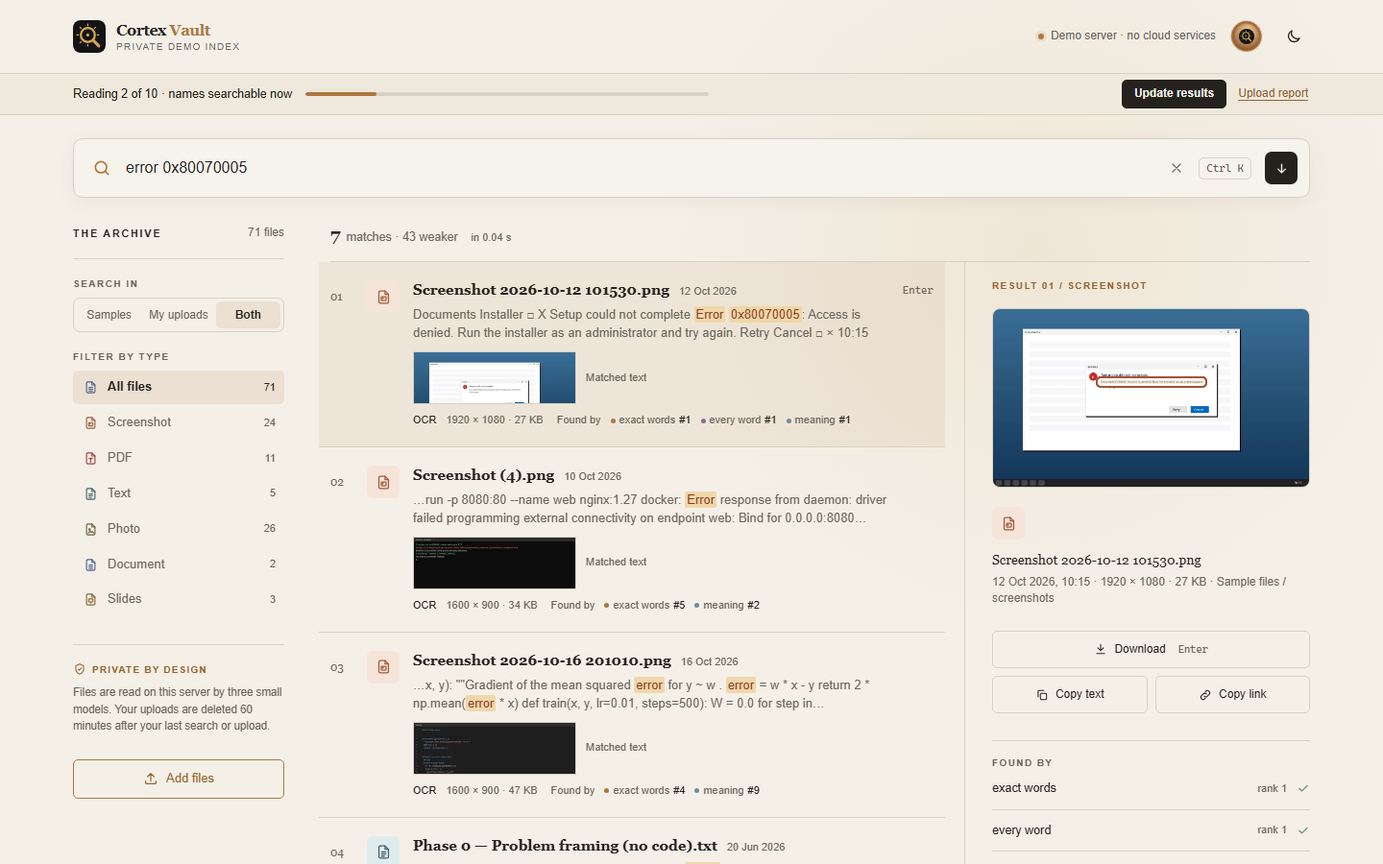
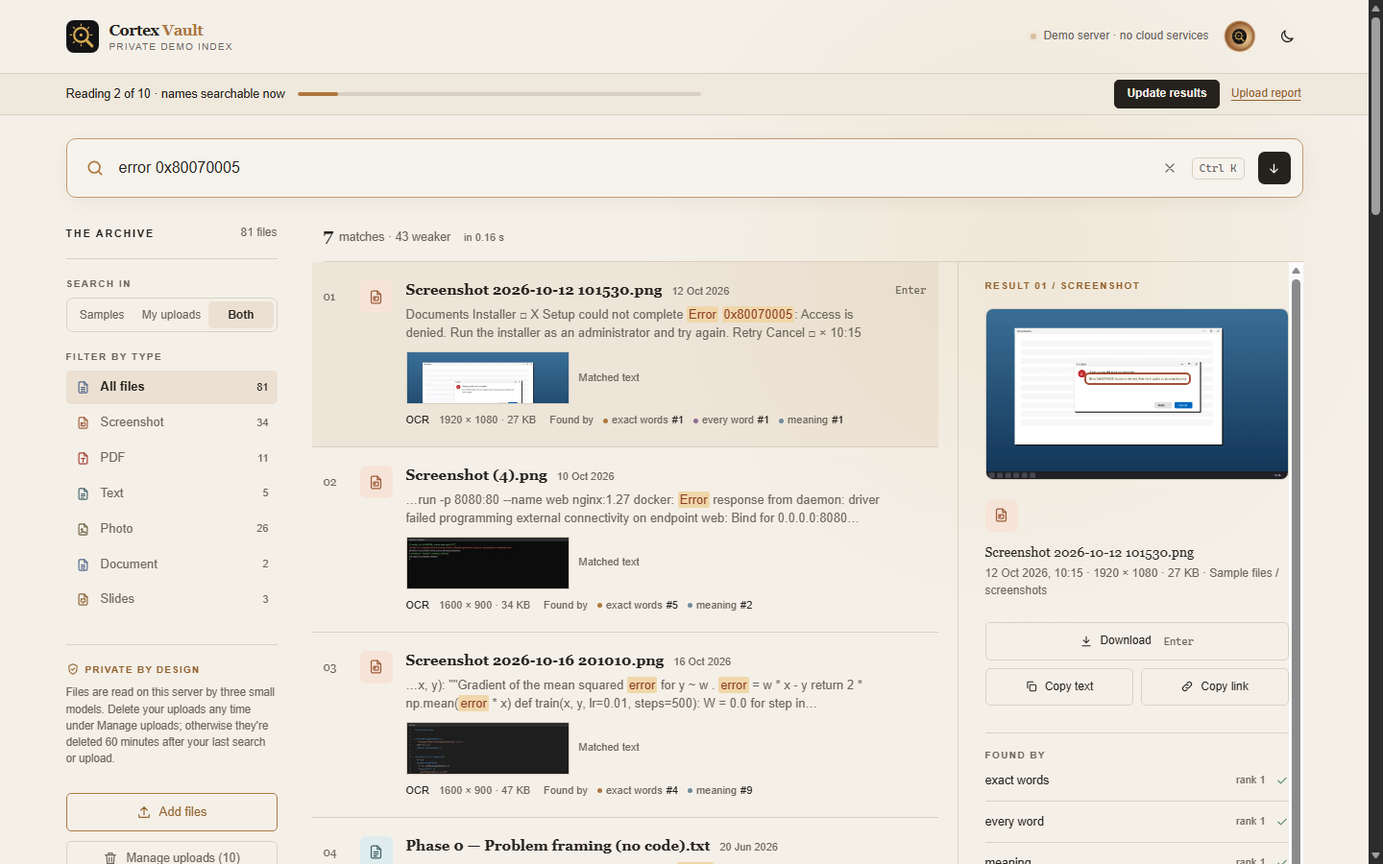
spec: v1.1.0 in §8 (the session cookie, drop anywhere, the tray, Manage uploads), §18, §19 rows per part, items ad and ae, v2.15; README and screenshots
- §2, §8, §18: a visitor's uploads are reached only through their session
  cookie (no URL names a session); drag and drop anywhere and the bigger drop
  zone; the upload tray; Manage uploads (Delete selected, Delete all uploads);
  the privacy texts point to Manage uploads.
- §19: one row per part with its tests and live check, the choices made on the
  way, open items ad (two first uploads racing in two tabs) and ae (no expiry
  message after a restart), both Later.
- README: the demo paragraph and rules, the test count (565), and the
  screenshots: the three desktop ones retaken on the demo index (warm), two
  added (the tray, Manage uploads).

diff --git a/SPEC.md b/SPEC.md
@@ -42,7 +42,7 @@
 | Writes | Index and re-index | Never to the demo index; uploads go into a per-session copy (§8) |
 | Bind | `127.0.0.1` only | `127.0.0.1:7860` behind Caddy, which serves HTTPS on 443 (§15) |
 | Extras | Index tab; "Open file" button (`vault/platform.py`: `os.startfile` on Windows, `open` on macOS, `xdg-open` on Linux) | Upload tab (files or a whole folder); "How it works" tab |
-| File access | Only paths stored in the DB | Only by DB id or session id. A user-supplied path is never read. |
+| File access | Only paths stored in the DB | Only by DB id; a visitor's own uploads only through their session cookie (§8). A user-supplied path is never read. |
 | Network | None after the first model download (`HF_HUB_OFFLINE=1` supported) | Same. The server itself is not private (§16). |
 
 ---
@@ -351,9 +351,12 @@ The UI is called **Cortex Vault**: the page title, header, favicon and footer sa
 - "N files": the files in the selected scope (*Search in*, §19 20 Oct): the samples, this session's uploads, or both in demo mode (*My uploads* before any upload: 0); the vault in local mode. With 71 samples and 10 uploads: Samples 71, My uploads 10, Both 81.
 - *Search in* (demo only): Samples, My uploads or Both; *Both* before any upload, *My uploads* once something is uploaded. Hidden on phones, where the scope is always *Both*.
 - **Filter by type:** All files, Screenshot, PDF, Text, Photo, Document, Slides, each with its count in the selected scope, as searches see it (Text is a `.txt` / `.md` file, Document the other docs). The total and the counts change with the scope, and after each upload: the status part carries every scope's counts, so cortex.js repaints them while the results on screen stay put. The filter is not a new search: with Photos on, you see the photos among the results on the page (up to 50). Kind *words* in the query stay hard filters (§7.1). The filter stays on across searches, and while it's on, the count line says so ("3 matches in Photos ×"); that × clears it, so a new search never quietly shows only one type. On home it filters "Recently added".
-- "Private by design": in demo mode "Files are read on this server by three small models. Delete your uploads any time with Delete my uploads; otherwise they're deleted N minutes after your last search or upload."; in local mode "Indexing runs on this computer. Nothing leaves this device."
-- **Add files** (demo) or **Folders** (local).
-- **Delete my uploads** (demo, §19 20 Oct): under Add files, and where The Archive follows the results on phones; shown only while the session has uploads. It asks first ("Delete all N files you uploaded? This can't be undone."), then wipes the session at once, the way the expiry does (`SessionManager.delete`, `_wipe`): every file in the session's folder is overwritten with zeros (best effort: flash storage and some filesystems can keep old blocks) and removed, so the uploads, its copy of the index and its thumbnails go, then any of Gradio's copies of its uploads still in Gradio's folder (refused files; accepted ones went when they were copied); the slot is free. Then the samples: scope *Samples*, the query on screen run again there, My uploads 0, and a toast "Your N uploads were deleted". Only the caller's own session: its id is the page's server-side state (`gr.State`), which a request can't set or name, and no route takes a session id for deleting. While one of its uploads is still being checked or read, nothing is touched and a toast says so.
+- "Private by design": in demo mode "Files are read on this server by three small models. Delete your uploads any time under Manage uploads; otherwise they're deleted N minutes after your last search or upload."; in local mode "Indexing runs on this computer. Nothing leaves this device."
+- **Add files** (demo: picked files go into the upload tray first, below) or **Folders** (local).
+- **Manage uploads (N)** (demo, owner, v1.1.0; it took the place of v1.0.4's *Delete my uploads*, §19 20 Oct): under Add files, and where The Archive follows the results on phones; shown only while the session has uploads, N being its files. It opens a dialog (full screen on phones) listing this browser's uploaded files, newest first (`/session/uploads`, by the session cookie only): a checkbox per file with its name, size and type, *Select all*, **Delete selected (k)** and **Delete all uploads**. Keyboard: focus stays in the dialog, Space ticks a box, Esc closes it and focus goes back to the button.
+  - **Delete selected** asks "Delete k files? This can't be undone.", then deletes those files of the cookie's session, by their id in its index (`SessionManager.remove`): each is overwritten with zeros and removed, with its thumbnail, then the indexer's sweep forgets it (`pipeline.remove_paths` over `_Indexer.forget`, the sweep's own step: one transaction per file, FTS rows deleted explicitly, then path chunks, unused thumbnails and a compaction). Ids that aren't the session's own uploads (a sample's, another session's) are ignored. The session's file count, total and hashes follow, so the same file can be uploaded again; its idle time doesn't restart, and it stays open even when emptied. The status names the deleted ids and carries the new counts: cortex.js takes those rows and their preview copies out of the results on screen without drawing them again, the selection moves to the next row (or the one before, at the end), the other rows keep their place and numbers, and the counts, the button and the list follow; home is drawn again. A toast says "k uploads deleted". The index version never goes back (`Library.version` counts removals), so "Update results" still shows after a later upload.
+  - **Delete all uploads** asks "Delete all N files you uploaded? This can't be undone.", then wipes the session at once, the way the expiry does (`SessionManager.delete`, `_wipe`): every file in the session's folder is overwritten with zeros (best effort: flash storage and some filesystems can keep old blocks) and removed, so the uploads, its copy of the index and its thumbnails go, then any of Gradio's copies of its uploads still in Gradio's folder (refused files; accepted ones went when they were copied); the slot is free. Then the samples: scope *Samples*, the query on screen run again there, My uploads 0, a toast "Your N uploads were deleted", and the page clears the cookie.
+  - Both act only on the session the browser's cookie names: no event data and no route names a session. While one of its uploads is still being checked or read, nothing is touched and a toast says so.
 - On phones the type filter is a row of chips above the results (the same buttons, with the same counts: the scope there is *Both*), and the rest of The Archive follows the results.
 
 **Results (presentation only; the ranking is unchanged, §7.4)**
@@ -372,38 +375,41 @@ The UI is called **Cortex Vault**: the page title, header, favicon and footer sa
 - **Text read by:** OCR ("on this server" in demo mode, "on this computer" locally), the PDF's own text layer, Word document text, slide text, plain text, or no text found.
 - **Extracted text:** the snippet, with the matched words marked.
 
-**Home** (below the search box): The Archive and, beside it, "Recently added" (newest indexed first); then in demo mode the drop zone, the upload notice and the note about the three models, and in local mode the indexed folders.
+**Home** (below the search box): The Archive and, beside it, "Recently added" (newest indexed first); then in demo mode the drop zone ("Drop files anywhere on this page", the accepted types and Choose files; on phones "Add your own files"), about three times its v1.0 height, with only the upload notice under it (v1.1.0: the note about the samples and the three models went; the rail's note and the hero's caption name the models, the header says no cloud services), and in local mode the indexed folders.
 
 **States:** no results (a one-line suggestion); an upload in progress (the upload bar, below; the dial turns and the header's dot pulses); after an upload, its report: each file as added, already in your uploads (sha256), not a supported type, or couldn't be read, with the reason.
 
 **Demo mode**
 - The header status reads "Demo server · no cloud services".
-- **Add files** (in The Archive) and the home drop zone upload files. Folder upload is Later (§14).
+- **Adding files** (owner, v1.1.0): Add files (in The Archive), the home drop zone, or **dropping files anywhere on the page**, home or results: dragging files over the page shows a full-page overlay, "Drop to add N files" (or that the demo is busy), and dropping anywhere adds them. Phones have no dragging: Add files and the zone open the file picker. Folder upload is Later (§14); a dropped folder is marked in the tray.
+- **The upload tray** (owner, v1.1.0): picked or dropped files go into a tray, a dialog (full screen on phones), and nothing leaves the browser until **Upload N files** is chosen. Each file shows its name, size and type; the files the server would refuse are marked "won't be added: <reason>" by checks that mirror `vault/session.py`'s, in its order and words: a folder, the type (as `Path.suffix` reads it), the size, then the session's file count and total over the files that will be added, after what the session already holds (`SessionManager.limits`, in the status part). The server still checks everything it's sent, and alone catches a file already uploaded and an Office file too large unpacked. Each file has a ×; **Add more** opens the picker (the same file twice is listed once), **Clear** empties the tray, and Cancel, Esc or the backdrop closes it. Upload sends only the files that will be added, and the bar counts the rest as not sent. The tray repeats the upload notice. Keyboard: focus goes to Upload, Tab stays inside, Esc cancels, and focus goes back where it came from.
 - **Upload bar (M6 item 3a, §19 19 Oct):** a slim strip under the header, in the page flow (also on phones), never a modal or overlay: search, the type filter and the detail view stay fully usable while it shows (a test runs a search while an upload is read). Real numbers only, never a time estimate:
   - "Uploading N of M files · P%": the browser-to-server transfer, measured by the browser (`XMLHttpRequest` upload progress to Gradio's upload endpoint). Where it can't be measured (that endpoint missing: Gradio's own upload helper), the bar is indeterminate for this stage, with no percentage;
   - "Listing N of M files": phase 1 (§6.1), which takes about 17 s for 200 files on the VM; indeterminate until the server knows M;
   - "Reading N of M · names searchable now": phase 2;
-  - then "Upload done: 3 added · 1 not added", with **Upload report** (the per-file outcome, opening inside the bar) and a close button. Files the browser couldn't send (over the size cap, or the connection dropped) are counted as "not sent".
+  - then "Upload done: 3 added · 1 not added", with **Upload report** (the per-file outcome, opening inside the bar) and a close button. Files the browser didn't send (marked "won't be added" in the tray, over the size cap, or the connection dropped) are counted as "not sent".
   - The bar is a `role="progressbar"` with real values (percent while uploading, files listed or read after), announces only stage changes, and with `prefers-reduced-motion` an indeterminate bar is a still, striped track.
   - **Update results** shows in the bar when files were listed or read after the results on screen were found (each results view carries the index version it was found in). It re-runs the current search and keeps the selected result if it's still there. Results never change by themselves: an upload never renders the main part. On home (no search), the first upload of a session switches the scope to *My uploads* and lists the new files under Recently added.
 - **Limits (M6, for a small audience, §19 19 Oct):** per session, counted over all its uploads: ≤ 200 files, ≤ 500 MB in total, ≤ 50 MB per file, ≤ 500 MB unpacked per Word or PowerPoint file (`upload_zip_max_total`), with an extension allow-list.
   - Enforce the limits in our own code, not only through Gradio's settings (Gradio's `max_file_size` is set from `upload_max_bytes`, so a larger file is refused before it's written).
   - Timed (M6, §19 19 Oct): a mixed 200-file, 230 MB upload is listed in 17 s and fully read in 6.9 min on the deploy host (`bench/bench_upload.py --files 200`), under the owner's ~8 min limit, so 200 stays. Five full sessions and their thumbnails take about 2.6 GB of the VM's 20 GB free.
 - **Session index:** a session is created by the first accepted upload only, never by opening or searching the page, so crawlers can't use up the slots. On that upload, copy the demo index (SQLite backup API) into `/tmp/vault_sessions/<uuid4>/` and index the uploads into that copy. The demo index itself never changes.
+- **The session cookie** (owner, v1.1.0): a session belongs to a browser, not a tab, so a reload or a second tab keeps the uploads. An HttpOnly, Secure, SameSite=Strict cookie (`cv_session`, Path=/, no expiry: gone when the browser closes) holds a random 256-bit token; the server keeps only its SHA-256, and the session's folder keeps its uuid4 name, which never leaves the server. It's set only after the first accepted upload: Gradio's handlers can read cookies but not set them, so that upload's status gives its own page a one-time ticket (256 bits, used once, within 5 minutes), which cortex.js trades at `POST /session/claim`, a same-origin JSON request only (another site's Origin or Sec-Fetch-Site gets 403); events wait for the claim, so the next one carries the cookie. Every handler and route finds the session from the cookie alone, never from page data or a URL; a cookie that names no live session counts as none (a forged one gets nothing), and the page clears it (`POST /session/forget`, which never clears a live session's cookie).
+- **Opening the page** on a live session brings back My uploads (on a desktop the scope switches to it, as after a first upload), the counts and the latest upload report, which the upload's worker keeps on the session; while an upload is still being read, the bar follows it there too (the load event has no concurrency limit). Opening the page doesn't keep a session alive. If the cookie's session expired, the page says "Your earlier uploads were deleted after N minutes" once and clears the cookie (the server remembers expired sessions' token hashes for 24 h, at most 1,000, not across a restart: item ae).
 - **Incremental (§19, 18 Oct):** every later upload adds only its new files to the session index; a file identical (sha256) to one already in the session is skipped. Uploading 30 files and then 20 more indexes 20 the second time, and the report says "added 20".
 - Uploads are indexed one job at a time (a queue): OCR uses every CPU, and the OCR engine keeps per-call state.
 - **Scope control** (*Search in*, in The Archive): see above.
-- Wipe a session `session_ttl_s` (60 min) after its last search or upload, not after it started, or at once with *Delete my uploads* (the same wipe); fetching a thumbnail, a preview or a download doesn't count. Wipe all sessions on app start. Every text that says when uploads are deleted takes the minutes from `session_ttl_s`.
+- Wipe a session `session_ttl_s` (60 min) after its last search or upload, not after it started, or at once with *Delete all uploads* (the same wipe); fetching a thumbnail, a preview or a download, opening the page and deleting some uploads don't count. Wipe all sessions on app start. Every text that says when uploads are deleted takes the minutes from `session_ttl_s`.
 - **At most `max_sessions` = 5 upload sessions at once** (§19, 19 Oct; 20 until then). With all 5 open, a visitor without a session sees "The demo is busy, try again in a few minutes" in place of the drop zone, Add files shows the same instead of opening the file picker, and an upload that arrives anyway is turned away whole (nothing kept, Gradio's copies included). Searching the sample files keeps working for everyone, and a visitor who has a session can still add to it.
-- Visible notice, under the drop zone and above the upload outcome: "Uploads are processed on this server and kept only for your session. Delete them any time with Delete my uploads; otherwise they're deleted N minutes after your last search or upload. For private use, run it on your own computer (see README)." The footer says "Demo server · your uploads are deleted N minutes after your last search or upload", and links to the source code (AGPL-3.0 section 13): a plain link, opened only when clicked, the one URL in a served page.
-- `/file/{id}` sends a file as an attachment with its content type, by DB id (plus the session id for uploads). An unknown id, another session's file and anything path-like all get 404.
+- Visible notice, under the drop zone and above the upload outcome: "Uploads are processed on this server and kept only for your session. Delete them any time under Manage uploads; otherwise they're deleted N minutes after your last search or upload. For private use, run it on your own computer (see README)." The tray repeats it before anything is sent. The footer says "Demo server · your uploads are deleted N minutes after your last search or upload", and links to the source code (AGPL-3.0 section 13): a plain link, opened only when clicked, the one URL in a served page.
+- `/file/{id}` sends a file as an attachment with its content type, by DB id; an upload only to the browser whose cookie names its session. An unknown id, another session's file and anything path-like all get 404.
 
 **Local mode:** the same design without the scope control; the header status reads "Local only · nothing leaves this device", the footer "Nothing leaves this device" and "Last indexed <when>"; "on this computer" in "Text read by"; Enter opens the file through `vault/platform.py`. **Folders** (in The Archive) opens a panel to add a folder, remove one, and "Index now" with progress, the last run report, counts by kind and the error list (automatic re-indexing is Later, §14). The panel and its handlers exist only in local mode.
 
 **How it works** (M6): architecture diagram, the eval ablation table (from `eval/results.md`), a privacy note, and a link to "Run on your own files".
 
 **Files and look**
-- Thumbnails, previews and downloads are served only by file id or session id, through the app's own routes (`/thumb/{id}`, `/preview/{id}`, `/file/{id}`), which look the file up in the DB. No URL carries a path, and Gradio's `allowed_paths` stays empty (§19, 18 Oct).
+- Thumbnails, previews and downloads are served only by file id, through the app's own routes (`/thumb/{id}`, `/preview/{id}`, `/file/{id}`), which look the file up in the DB: the session copy the browser's cookie names, else the main index. No URL carries a path or names a session (v1.1.0: no more `?s=`), and Gradio's `allowed_paths` stays empty (§19, 18 Oct). Preview URLs carry the start of the file's SHA-256, as thumbnail URLs do, since a file id can come back for another file.
 - Static assets (`cortex.css`, `cortex.js`, the logo) are served by the app from `vault/ui/static/` at `/cv/…`. There are no font files: the look uses system fonts (Georgia for the brand, headings, file names, counts and numbers; Arial / Helvetica for the rest; the system monospace for key hints and Details), and the Gradio theme names them as plain strings, so nothing loads from the internet. The page names `cortex.css` and `cortex.js` with `?v=` and the first 12 hex digits of the file's SHA-256, hashed when the app starts, so after a deploy no browser runs a copy it cached before; the page itself has no validators, so it's always fetched again (§19, 20 Oct).
 - Colours, spacing, components, shadows, the warm glow and the dial follow `design/v0-brass/`, in light and dark. Theme: the OS setting on a first visit; the header toggle switches it and this browser remembers the choice (`localStorage`); `?__theme=light|dark` forces one.
 - Every file name, path, snippet and OCR string is HTML-escaped on the server; the only tags our code adds are `<mark>` and the layout. `cortex.js` builds elements with `textContent` only.
@@ -701,8 +707,8 @@ The plan has one Claude Code session per milestone, with a commit at the end of 
 
 - [x] Local mode binds `127.0.0.1`; only demo mode is exposed. (`app.py` binds 127.0.0.1 in both modes.)
 - [x] On the VM, Gradio binds `127.0.0.1:7860`; only Caddy (80/443) and SSH (22, key-only) are reachable. (18 Oct: `ss -tlnp` lists 22/80/443 public, 7860 and Caddy's 2019 on loopback; `sshd -T` has password and keyboard-interactive auth off; 7860 refused from the laptop.)
-- [x] Demo mode resolves every served file from a DB id or a session id. No path parameters. (`/thumb/{id}`, `/preview/{id}`, `?s=<uuid4>`; `tests/test_ui.py`.)
-- [x] Session ids are `uuid4`; session dirs live under one root and are wiped on TTL and on start. (`vault/session.py`; `tests/test_session.py`.)
+- [x] Demo mode resolves every served file from a DB id, and a visitor's uploads only through their session cookie. No path parameters, and no URL names a session. (`/thumb/{id}`, `/preview/{id}`, `/detail/{id}`, `/file/{id}`; `tests/test_ui.py`.)
+- [x] Session ids are `uuid4`; session dirs live under one root and are wiped on TTL and on start. (`vault/session.py`; `tests/test_session.py`.) The session cookie (v1.1.0) holds a random 256-bit token, HttpOnly, Secure, SameSite=Strict, of which the server keeps the SHA-256; it's set only by trading a one-time ticket in a same-origin JSON request. (`tests/test_ui.py`, `tests/test_ui_browser.py`.)
 - [x] Uploads: extension allow-list; size, count and total limits enforced in code; zip guard for `.docx` / `.pptx`; every decode wrapped in try/except. (Plus: only files inside Gradio's upload folder are read.)
 - [x] The upload notice says plainly that uploads are processed on the server.
 - [x] Nothing personal in git: no personal files, no GPS EXIF, no model cache, no `data/` (`.gitignore` covers them). (The M4 corpus is generated; `build-demo` refuses images with GPS.)
@@ -810,6 +816,12 @@ The plan has one Claude Code session per milestone, with a commit at the end of 
 | 20 Oct | **Code freeze after v1.0.2 (owner).** No more code changes unless something breaks. **Release check:** full suite 524 passed; deployed 110bc8f (the stylesheet and script unchanged, same hashes). A headless Edge session holding the unversioned `/cv/cortex.js` and `/cv/cortex.css`, kept open across the deploy, loaded only the versioned URLs after it (from its cache: unchanged files), though the unversioned copies were still cached; the new script ran and row 03's preview was right. Runbook §8: 200, 200 image/webp, `deploy/check.py` OK (50 results, 0.11 s); the preview scenarios (↓↓ and a phone tap, with every /detail response let through late) OK. Tagged v1.0.2 | Owner |
 | 20 Oct | **The Archive's counts follow the scope (v1.0.3, owner's report; a fix under the freeze).** Before: with 71 samples and 10 uploads, Samples, My uploads and Both all showed "81 files" and the same per-type counts: `layout.archive` counted Both whatever the scope, as §8 then said. Now `Library.type_counts(roots)` takes the scope's roots, as `search` and `recent` do (`layout.scoped_counts`; My uploads before any upload is 0, not every sample), so the total and every type's count are the selected scope's. A scope switch re-renders The Archive with the results; an upload changes only the status part (the results never move), so that part now carries every scope's counts (`data-counts`) and cortex.js repaints the rail from it (`scopeCounts`, `paintArchive`) when the status changes, never on a new render (which brings its own numbers). The search results and the "N matches" line already followed the scope; the phone's filter chips are the same buttons, and the scope there is Both. Tests: a session with uploads, every scope's counts, the results and the count line per scope, and the status's counts after a second upload (server; fails on the old code with My uploads showing the samples); `scopeCounts` (Node); and a real browser on the demo index (upload, switch Samples / Both / My uploads, search, upload again while on Both: the rail 74 → 76 with the same render; a phone shows Both's counts on its chips). The browser tests' demo fixture now reads uploads from Gradio's own folder, as app.py does: before, the session refused them, and the report test checked only "files received"; it now checks "added" too. **Live:** before the deploy the bug showed there (after an upload of 3 files, Samples, My uploads and Both all 74 with the same per-type counts; a second upload left 74). Deployed 6f9cdb7 (`cortex.js` now `?v=83cf1dc97f85`): Samples 71, My uploads 3, Both 74, each type's count following; the search "quokka field notes" gives 3 matches, all uploads, in My uploads and no upload in Samples; a second upload on Both moved the rail 74 → 76 with the same render and cards; a phone shows Both's counts (74) on its chips, no scope control. Runbook check OK; the preview scenario OK. Full suite 527 passed. Tagged v1.0.3 | Owner's bug report, 20 Oct |
 | 20 Oct | **Delete my uploads (v1.0.4, owner's feature under the freeze).** Demo only, under Add files (and on phones), shown while the session has uploads (the server renders it hidden otherwise; cortex.js shows or hides it from the status's My uploads count after each upload). A native `confirm` asks "Delete all N files you uploaded? This can't be undone." (N: My uploads now); OK sends the main part's click event with the action and the query on screen. The handler (`layout.delete_uploads`) wipes the page's own session, its id from `gr.State`, through `SessionManager.delete` → `_wipe`, which the expiry now uses too: each file overwritten with zeros, then the folder removed (uploads, index copy, thumbnails), then Gradio's copies of the session's refused files and their empty folders (recorded per session as they arrive). Then the samples with the query run again, My uploads 0, a one-shot toast (`data-toast`, a fresh id each time) "Your N uploads were deleted". `add_files` now marks the session busy from its first line, under the lock, so a delete can't slip in while an upload is still being checked; a delete then is refused ("Your upload is still being read…"). Privacy texts: "Delete them any time with Delete my uploads; otherwise they're deleted N minutes after your last search or upload." Not built: the optional per-file × (the indexer's sweep would remove one file cleanly, but it adds a control to the upload report and to result cards, with their own tests: twice this change under the freeze). Tests: the wipe takes the files off the disk and the index (Gradio's refused copy too); other sessions and the samples untouched; the slot freed under the cap and a new upload starts a fresh session; ids that aren't a live session refused; busy refused, including during an upload's checks; the overwrite; the expiry the same way; back to Samples with the toast; a second visitor's delete event through the real Gradio queue, with the first visitor's id in its state and its event data, reaches only its own empty session ("You have no uploads to delete."), and no route takes an id; the confirmation text (Node); and a browser on the demo index, desktop and phone (hidden before an upload, Cancel changes nothing, OK: the toast, Samples, My uploads 0, the button gone, the session's folder gone, the uploads not found again). Full suite 541 passed. **Live** (deployed ff15095; `cortex.js` and `cortex.css` got new `?v=` hashes): desktop and phone, the button hidden before an upload and shown after it (My uploads 3); a search finds the 3 uploads; the confirmation reads "Delete all 3 files you uploaded? This can't be undone."; Cancel changes nothing; OK: "Your 3 uploads were deleted", Samples, 71 files, My uploads 0, the button gone, and a search again in Both finds none of them. On the server afterwards: no session folder in `/tmp/vault_sessions`, no copy of the uploaded files under `/tmp`, nothing in Gradio's temp folder. The runbook check, the preview scenario and the scope counts (71 / 3 / 74, then 76) still pass. Tagged v1.0.4 | Owner's feature request, 20 Oct |
+| 20 Oct | **v1.1.0, the owner's feature release under the freeze rules:** four parts, each tested, committed, deployed and checked live before the next, so the live site worked at every step; then the README, this spec and the screenshots, tag v1.1.0, frozen again. | Owner, 20 Oct |
+| 20 Oct | **Part 1: uploads survive a page refresh (b04538b).** The session was the tab's (`gr.State`); now it's the browser's: an HttpOnly, Secure, SameSite=Strict cookie, Path=/, no expiry, holding a random 256-bit token (`secrets.token_urlsafe(32)`, 43 characters), of which the server keeps only the SHA-256; the session folder keeps its uuid4 name, never sent. Gradio's handlers read cookies (the queue's join request) but can't set them, so the first accepted upload's status gives its own page a one-time ticket (256 bits, used once, 5 minutes; as soon as the session is created, not after listing, which takes 17 s for 200 files), and cortex.js trades it at `POST /session/claim` (same-origin JSON only, 1 KB at most); events wait for the claim. Every handler and route takes the session from the cookie alone: `?s=` is gone from `/thumb`, `/preview`, `/detail` and `/file`, which serve the cookie's session copy or else the samples; preview URLs now carry the start of the file's SHA-256 (a file id can come back for another file after a delete). Opening the page reattaches a live session: My uploads (desktop), the counts and the latest upload report, which the upload's worker now keeps on the session, so it's right even when the uploading tab itself was reloaded mid-upload, and the bar follows an upload still being read (load event unlimited). Opening the page doesn't keep a session alive (`UiContext.session` no longer touches it; a search does). A cookie naming no live session is cleared (`POST /session/forget`, never a live one); if its session expired, the page says "Your earlier uploads were deleted after 60 minutes" (expired tokens' hashes kept 24 h, at most 1,000). Delete my uploads acts only on the cookie's session and clears the cookie. Tests (through Gradio's own queue, one cookie jar per browser): the claim's attributes, once only, refused from another site; reload and a second tab; another browser and a forged cookie; expiry; a reload during an upload; a delete event naming another session; headless Edge on desktop and phone, including a 6-second-session app for expiry. A held-upload test that raced Windows' 16 ms timer (a search shorter than one status render) now waits for the bar's "Reading". Full suite 551 passed. **Live:** runbook OK (50 results, 0.45 s); the page sets no cookie; desktop and phone: no cookie after opening or searching; after the upload the session cookie (HttpOnly, Secure, Strict, session, 43 characters, not in `document.cookie`); a reload and a second tab: My uploads 2, "Upload done: 2 added" with the report, both files found; another browser and a forged cookie: My uploads 0, nothing found, no message, the forged cookie cleared; Delete my uploads cleared the cookie; the server held no session folder, nothing in Gradio's folder, no copy of the files | Owner's feature request, 20 Oct |
+| 20 Oct | **Part 2: drag and drop anywhere (2bc5ceb).** Document-level drag handlers replace the drop zone's own: dragging files over the page (home or results) shows a full-page overlay, "Drop to add N files" (the browser says how many while dragging), and dropping anywhere adds them; the overlay also goes when the browser stops reporting the drag (1 s), since leaving the window doesn't always say so. The home drop zone is about three times taller (222 px at 1440 px wide) with only the §8 notice under it; the note about the samples and the three models went. Phones: "Add your own files", which opens the picker. A drop while files are still being sent says so. Tests: the zone and notice (server), the overlay text (Node), headless Edge dragging over the hero and over the results list (`Input.dispatchDragEvent` with real files), a cancelled drag, the phone's text. Full suite 554 passed. **Live:** runbook OK (0.24 s); zone 222 px, the notice right under it; "Drop to add 2 files" over the hero, added (My uploads 2); "Drop to add 1 file" over the results, added (3) with the same render; a cancelled drag sent nothing; phone: "Add your own files"; the server clean after | Owner's feature request, 20 Oct |
+| 20 Oct | **Part 3: review before upload (7436258).** Picked or dropped files go into a tray (a dialog: `role="dialog"`, `aria-modal`, focus kept inside, Esc cancels; full screen on phones) and nothing is sent until Upload. Checks mirror `_add` in its order and words, from `SessionManager.limits` in the status: a folder (`webkitGetAsEntry`), the type (Python's `PurePath.suffix`, lowercased), the size, the session's file count and total over the files that will be added after what it holds. Not checked in the browser: a file already uploaded (sha256) and an Office file too large unpacked; the server reports those. Files marked "won't be added" aren't sent, and the bar counts them as not sent; the same file twice (name, size, date) is listed once. Tests: the tray and the server give the same reason for each of 10 files under small limits (Node against the session manager); the helpers; the limits in the status; headless Edge, keyboard on a desktop and touch on a phone, every request to the upload endpoint counted. The other browser checks now upload through the tray (`cdp.mjs` `upload`). Full suite 558 (one driver had a local name shadowing the new helper; fixed, then green). **Live:** runbook OK (0.32 s); desktop and phone: Add files and Add more open the picker; 4 files listed with size and type, `.zip` and `README` marked with the server's words, "Upload 2 files"; × and duplicates right; Tab stays in the tray, Esc returns focus to Add files; nothing sent before Upload and one request after; "Upload done: 1 added · 1 not sent"; the phone's tray 390 × 844, the screen; the drop check again, now through the tray; the server clean | Owner's feature request, 20 Oct |
+| 20 Oct | **Part 4: choose which uploads to delete (2636295, 1d0189d).** "Manage uploads (N)" replaced Delete my uploads in The Archive (and on phones): a dialog with this session's files (`GET /session/uploads`, by cookie only), checkboxes, Select all, "Delete selected (k)" and "Delete all uploads" (v1.0.4's wipe, renamed). Per-file delete reuses the indexer's sweep: the sweep's per-file step is now `_Indexer.forget` (one transaction per file, the file's rows with its FTS rows deleted explicitly), used by the sweep and by `pipeline.remove_paths`, which then rewrites path chunks, removes unused thumbnails and compacts; the files and their thumbnails are overwritten with zeros first. No `INDEX_LOCK`: only the session's own index is written, and its uploads are held off by the busy flag (so another visitor's long upload doesn't hold it up). `Library.version` counts removals (`meta.removed`) so it never goes back. The results on screen aren't drawn again: the status names the deleted ids and cortex.js takes them out. Privacy texts: "Delete them any time under Manage uploads". Tests: removal off the disk and out of the index (overwrite, thumbnails, FTS, version, re-upload), nothing else touched, one transaction per file, the handler, the list by cookie, another visitor's Delete selected through the queue, headless Edge on desktop and phone. Full suite 565 passed. **Live:** runbook OK (0.37 s); the list route without a cookie: `{"files": []}`; desktop: 4 uploads, row 02 selected, Select all and back by keyboard, rows 02 and 04 ticked, Cancel then OK on "Delete 2 files? This can't be undone.": both rows gone at once, the selection on 03, 01 and 03 kept their numbers, "2 uploads deleted", Manage uploads (2), the list 2, Esc closed it with focus back on the button; on the server meanwhile the session folder held quokka-1 and quokka-3 only, 2 thumbnails, and its index no row for the deleted files, FTS rows equal to chunks; the phone the same (12 → 10 results in Both); Delete all uploads left the server clean. **Then a fix (1d0189d):** the README screenshot showed ticked boxes as empty: Gradio draws every checkbox itself (a white tick on a transparent box), so the panel's are now cortex.css's (brass, a white tick, a dash for some); the browser test reads a ticked box's background and fails on the old stylesheet | Owner's feature request, 20 Oct |
+| 20 Oct | **v1.1.0 choices made on the way (not in the request):** the cookie has no Max-Age (a session cookie: the session itself ends sooner, and the server can't refresh a cookie from a Gradio event); the ticket, not the session id, is the one secret a page ever holds, for at most 5 minutes; two first uploads racing in two tabs leave one session orphaned (item ad); a restart forgets which tokens expired (item ae); Delete selected keeps the view (only rows go) and keeps an emptied session open (it ends at its expiry), while Delete all uploads still goes back to Samples; the tray doesn't send files it marks; the home's note about the models went (the rail and the hero say it). README screenshots retaken on the demo index, warm (`readme-desktop-*`), two added (the tray, Manage uploads) | Owner's feature, choices recorded for review |
 
 ### Open items
 
@@ -846,10 +858,19 @@ Status is `open`, `done` (with the commit), or `moved to Mx` (with the reason). 
 | aa | A restart of the demo can hang for systemd's 90 s stop timeout: on 19 Oct the app ignored SIGTERM until killed (`State 'stop-sigterm' timed out`), while earlier restarts took seconds. Likely cause: `uvicorn.run` in `app.py` has no `timeout_graceful_shutdown`, so it waits for open browser connections (Gradio's event streams). Proposed fix: `timeout_graceful_shutdown=5`, with a test that the server stops with a client connected | M6 | done: `SHUTDOWN_GRACE_S` = 5 in `app.py` (owner, 19 Oct); test reproduces the hang with uvicorn's defaults (still running 15 s after the stop) |
 | ab | Since the M6 re-skin the `search` endpoint takes its query from the event data the page sends (`{q, scope, select}` on the search box's submit), so a call without it, such as `deploy/azure.md` §8's `gradio_client` check, raises `TypeError` in `on_search` (`_event`: Gradio's `EventData` with no data) and the check fails; the browser path works (release check, 20 Oct). Proposed: `_event` returns the default when the event carries no data, with a test, and §8's check sends the query as event data through the queue. The owner keeps `deploy/azure.md` as it is for now | M7 | done: 46e3abb (`deploy/check.py` sends the search through the queue with the query as event data; §8 updated, the owner's OK for that section; tested on generated files). Not changed: a call without event data still raises the `TypeError` in `on_search`; no page sends one, and the code is frozen (owner, 20 Oct) |
 | ac | M6's done-when asks for ≥ 40 queries meeting the §9 coverage; checked for the M6 report (20 Oct): the owner's 44 queries cover their four search types (exact word 9, meaning 19, picture 10, inside a scan 6), but none targets a `.docx` or `.pptx` file (§9 asks for ≥ 6; the generated set has 2), there are no `filtered` or `mixed` queries (date filters are Later, item p), and the tall-screenshot (≥ 3) and PDF-image (≥ 3) counts aren't recorded per query. No waiver is recorded. Owner to decide: accept the four search types as M6's coverage (a §19 row), or add queries to the generated set (never the held-out half: no more held-out runs, owner 20 Oct) | M7 | done: e33e85b, 1af57f2 (the owner's 44 cover the owner's four search types; the coverage set, 21 queries about the generated files, run once and logged: 18 / 21 / 21, MRR 0.929; every §9 minimum met, counts in `eval/results.md`; §9, §19 20 Oct) |
+| ad | Two tabs of one browser whose first uploads start before either has the cookie make two sessions; the last claim wins, and the other session is left until it expires (a slot held up to 60 minutes). Seen in review (v1.1.0), not reported. Proposed: nothing for the demo's audience | Later | open |
+| ae | A restart (every deploy) wipes all sessions and forgets which tokens expired, so a page opened afterwards with an old cookie just clears it, without "Your earlier uploads were deleted…" (v1.1.0). Proposed: nothing (the message would need state that survives a restart) | Later | open |
 
 ---
 
 ## 20. Changelog
+
+**v2.15 (20 Oct 2026, release v1.1.0; code frozen again)**
+- Uploads belong to the browser: an HttpOnly, Secure, SameSite=Strict session cookie; a reload or a second tab keeps them, and an expired session says so (§8, §18, §19).
+- Drop files anywhere on the page; a bigger drop zone with only the privacy notice under it (§8).
+- Files are reviewed in a tray before anything is sent (§8).
+- Manage uploads: delete some uploads, or all of them (Delete all uploads, v1.0.4's Delete my uploads) (§8).
+- Open items ad and ae (Later).
 
 **v2.14 (20 Oct 2026, release v1.0.4)**
 - Delete my uploads: a demo visitor wipes their session at once, the way the expiry does (§8, §19).

diff --git a/README.md b/README.md
@@ -5,9 +5,10 @@ Vault reads the text in every file (with OCR for images and scanned pages), unde
 looks at what is in each picture, using three small models that run on the CPU. Nothing is sent to a cloud service.
 
 **Live demo:** https://swarup-vault.indiasouthcentral.cloudapp.azure.com/ searches 71 sample files: 52 generated
-ones and 19 of the author's own. You can add your own files to search them alongside; they stay on the demo server,
-are kept only for your session: delete them any time with Delete my uploads, otherwise they're deleted 60
-minutes after your last search or upload.
+ones and 19 of the author's own. You can drop your own files anywhere on the page, review them, and search them
+alongside the samples; they stay on the demo server and are kept only for your browser's session (a reload keeps
+them): delete some or all of them any time under Manage uploads, otherwise they're deleted 60 minutes after your
+last search or upload.
 
 **Source:** https://github.com/swarup0077/cortex-vault (AGPL-3.0; the demo's footer links here).
 
@@ -16,6 +17,8 @@ minutes after your last search or upload.
 | ![Search results for "error 0x80070005"](design/v0-brass/port/readme-desktop-light-results.png) | ![A picture match](design/v0-brass/port/readme-desktop-light-picture-match.png) |
 | **Uploading your own files: searchable by name at once, then by content** | **On a phone, dark theme** |
 | ![The upload progress bar](design/v0-brass/port/readme-desktop-bar-reading.png) | <img src="design/v0-brass/port/readme-phone-dark-results.png" alt="Results on a phone" width="180"> |
+| **Your files, reviewed before anything is sent** | **Manage uploads: delete some or all of them** |
+| ![The upload tray, with a file that won't be added](design/v0-brass/port/readme-desktop-tray.png) | ![Manage uploads, with two files ticked](design/v0-brass/port/readme-desktop-manage.png) |
 
 ## How search works
 
@@ -182,9 +185,12 @@ ones, which are OCR'd page by page): text and Word 5.2, PowerPoint 8.8, PDF 0.20
 - **No cloud calls.** No file, text or query is sent to any service. The app doesn't log queries, in either mode;
   recent searches are kept in your browser only.
 - **The demo's rules:** at most 5 upload sessions at once; per session 200 files, 500 MB in total and 50 MB per file;
-  uploads are deleted at once with Delete my uploads (overwritten, then removed: the files, the session's index
-  copy and thumbnails), or 60 minutes after the session's last search or upload. Files are served by database id or
-  session id only, never by a path a visitor supplies. A session is created only by an upload, never by visiting or
+  picked or dropped files are checked in the browser and nothing is sent until you choose Upload. Uploads are deleted
+  under Manage uploads, some or all of them, at once (overwritten, then removed: the files, their thumbnails and
+  their rows in the session's index copy; all of them: the whole session), or 60 minutes after the session's last
+  search or upload. A session belongs to one browser: an HttpOnly, Secure, SameSite=Strict cookie holds a random
+  256-bit token, of which the server keeps only a hash; no URL or page names a session, and files are served by
+  database id only, never by a path a visitor supplies. A session is created only by an upload, never by visiting or
   searching. The demo's 19 real files were checked for personal data before they were added, and images carrying GPS
   data are refused when the demo index is built.
 
@@ -283,6 +289,6 @@ Cortex Vault was built between 16 and 19 October 2026 from [SPEC.md](SPEC.md), t
 milestone per session,
 with [Claude Code](https://claude.com/claude-code): M0 scaffold and deploy probe, M1 text pipeline, M2 OCR, M3
 photos, CLIP and metadata, M4 UI and first deploy, M5 speed and visual polish, M6 real files and the evaluation.
-Each change came with a test on generated files (541 tests today), and every threshold was first calibrated on
+Each change came with a test on generated files (565 tests today), and every threshold was first calibrated on
 generated data with a script in [`bench/`](bench/README.md), marked provisional, and tuned only on the tuning half
 of the evaluation queries. The decisions, with what was measured and why, are logged in SPEC §19.
